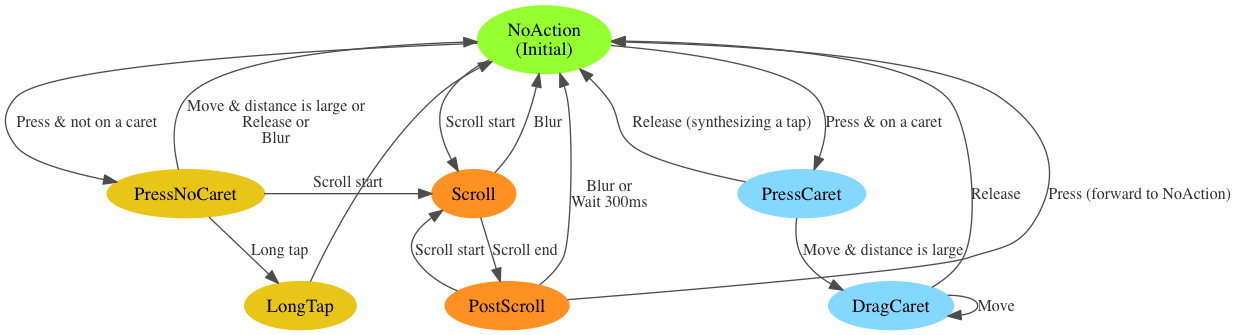
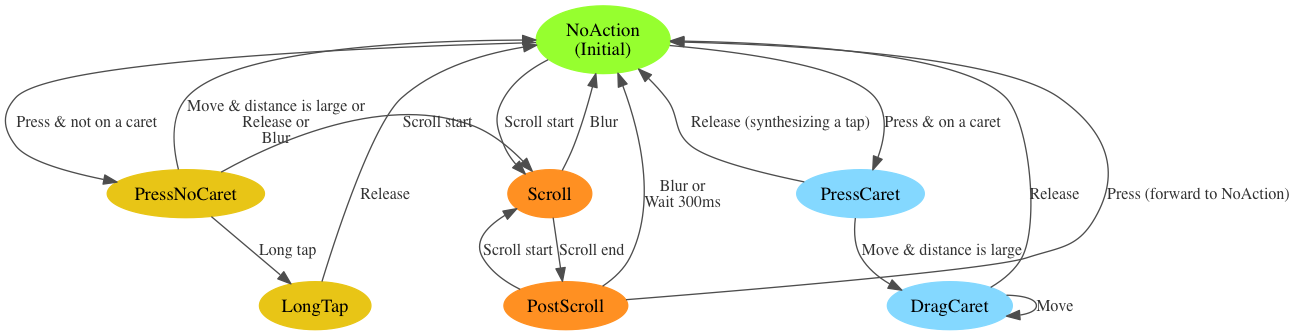
Bug 1121468 - Go to NoActionState after receiving release on LongTapState. r=roc
This makes the state change match the user action. No functionality
changes is expected.

diff --git a/layout/base/gtest/TestAccessibleCaretEventHub.cpp b/layout/base/gtest/TestAccessibleCaretEventHub.cpp
@@ -60,6 +60,7 @@ public:
   using AccessibleCaretEventHub::PressNoCaretState;
   using AccessibleCaretEventHub::ScrollState;
   using AccessibleCaretEventHub::PostScrollState;
+  using AccessibleCaretEventHub::LongTapState;
   using AccessibleCaretEventHub::FireScrollEnd;
 
   explicit MockAccessibleCaretEventHub()
@@ -461,7 +462,7 @@ AccessibleCaretEventHubTester::TestLongTapWithSelectWordSuccessful(
                            nsEventStatus_eIgnore);
 
   HandleEventAndCheckState(CreateLongTapEvent(0, 0),
-                           MockAccessibleCaretEventHub::NoActionState(),
+                           MockAccessibleCaretEventHub::LongTapState(),
                            nsEventStatus_eConsumeNoDefault);
 
   HandleEventAndCheckState(aReleaseEventCreator(0, 0),
@@ -502,7 +503,7 @@ AccessibleCaretEventHubTester::TestLongTapWithSelectWordFailed(
                            nsEventStatus_eIgnore);
 
   HandleEventAndCheckState(CreateLongTapEvent(0, 0),
-                           MockAccessibleCaretEventHub::NoActionState(),
+                           MockAccessibleCaretEventHub::LongTapState(),
                            nsEventStatus_eIgnore);
 
   HandleEventAndCheckState(aReleaseEventCreator(0, 0),

diff --git a/layout/base/AccessibleCaretEventHub.cpp b/layout/base/AccessibleCaretEventHub.cpp
@@ -327,9 +327,16 @@ public:
       rv = nsEventStatus_eConsumeNoDefault;
     }
 
+    return rv;
+  }
+
+  virtual nsEventStatus OnRelease(AccessibleCaretEventHub* aContext) override
+  {
     aContext->SetState(aContext->NoActionState());
 
-    return rv;
+    // Do not consume the release since the press is not consumed in
+    // PressNoCaretState either.
+    return nsEventStatus_eIgnore;
   }
 
   virtual void OnReflow(AccessibleCaretEventHub* aContext) override
